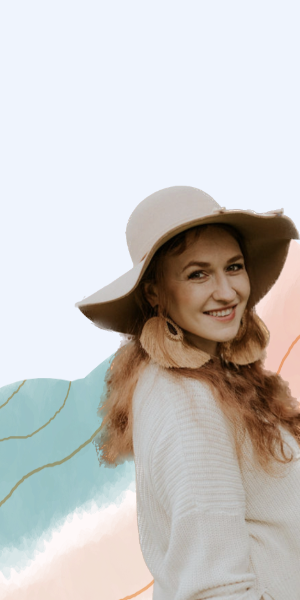
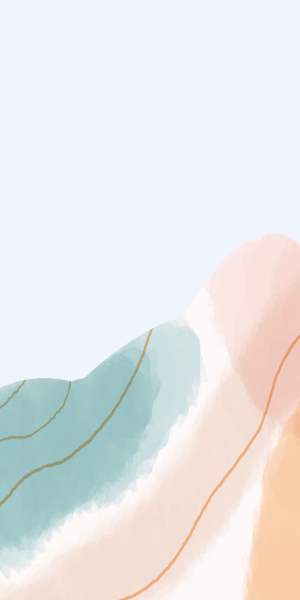
Added about section

diff --git a/styles.css b/styles.css
@@ -1,5 +1,5 @@
 :root {
-  --main-color: #fcc6cf;
+  --main-color: rgb(161, 198, 201);
 }
 
 * {
@@ -20,7 +20,7 @@ body {
   color: #000;
 }
 
-.hero {
+#header {
   position: relative;
   height: 100vh;
   width: 100%;
@@ -85,7 +85,7 @@ nav ul li a:hover {
 .detel {
   margin-left: 8%;
   margin-top: 12%;
-  font-size: 30px;
+  font-size: 20px;
 }
 
 .detel h1 span {
@@ -96,7 +96,7 @@ nav ul li a:hover {
 /* Button 1 */
 
 .button {
-  font-size: 1.25rem;
+  font-size: 1rem;
   font-weight: 400;
   margin: auto;
   padding: 20px 20px;
@@ -108,12 +108,13 @@ nav ul li a:hover {
   cursor: pointer;
   display: inline-block;
   flex-shrink: 0;
-  font-size: 1.25rem;
+  font-size: 1rem;
   font-weight: 800;
   margin: 32px;
-  padding: 20px 20px;
+  padding: 10px 20px;
   position: relative;
   text-decoration: none;
+  text-align: center;
   z-index: 1;
 }
 
@@ -154,17 +155,47 @@ nav ul li a:hover {
   transform: translate(5px, -5px);
 }
 
+/*----*/
+
 nav .fa-solid {
   display: none;
 }
 
-@media only screen and (max-width: 600px) {
+/* O mnie */
+
+#about {
+  width: 100%;
+  padding: 100px 0;
+  font-size: 20px;
+  background-image: url(images/background2.png);
+}
+
+#about img {
+  height: auto;
+  width: 430px;
+  margin-left: 10vw;
+}
+
+.about-description {
+  width: 550px;
+}
+
+.main {
+  width: 1130px;
+  max-width: 95%;
+  margin: 0 auto;
+  display: flex;
+  align-items: center;
+  justify-content: space-between;
+}
+
+@media only screen and (max-width: 900px) {
   .header {
     background-image: url(images/background-screen.png);
   }
 
   .detel {
-    margin-top: 60%;
+    margin-top: 40%;
     font-size: 16px;
   }
 
@@ -175,6 +206,7 @@ nav .fa-solid {
   nav .fa-solid {
     display: block;
     font-size: 25px;
+    cursor: pointer;
   }
 
   nav ul {
@@ -184,7 +216,7 @@ nav .fa-solid {
     width: 200px;
     height: 100vh;
     padding-top: 50px;
-    background: rgb(252, 198, 207, 0.9);
+    background: rgb(161, 198, 201, 0.9);
     z-index: 2;
   }
 
@@ -203,5 +235,17 @@ nav .fa-solid {
   nav ul li a:hover {
     color: #eff4fd;
     text-decoration: underline;
+  }
+
+  nav .fa-bars:hover {
+    color: var(--main-color);
+  }
+
+  nav .fa-xmark:hover {
+    color: #eff4fd;
+  }
+
+  #about img {
+    display: none;
   }
 }

diff --git a/index.html b/index.html
@@ -27,7 +27,7 @@
             ></a>
             <div class="navbar-links">
               <ul id="sidemenu">
-                <li><a href="#">O mnie</a></li>
+                <li><a href="#about">O mnie</a></li>
                 <li><a href="#">Usługi</a></li>
                 <li><a href="#">Galeria</a></li>
                 <li><a href="#">Kontakt</a></li>
@@ -53,7 +53,21 @@
         </div>
       </header>
     </div>
-    <section></section>
+    <!----------O mnie-------->
+    <section id="about">
+      <div class="main">
+        <div class="about-description">
+          <h1>Kim jestem?</h1>
+          <p>
+            Lorem ipsum dolor sit amet consectetur adipisicing elit. Veniam,
+            laboriosam, nulla cupiditate omnis blanditiis perferendis quo
+            numquam, saepe doloribus temporibus consequuntur. Nostrum voluptatum
+            a voluptate impedit facere laborum aliquam ea.
+          </p>
+        </div>
+        <img src="images/myphoto.png" alt="" id="me-photo" />
+      </div>
+    </section>
 
     <script>
       var sidemenu = document.getElementById("sidemenu");
